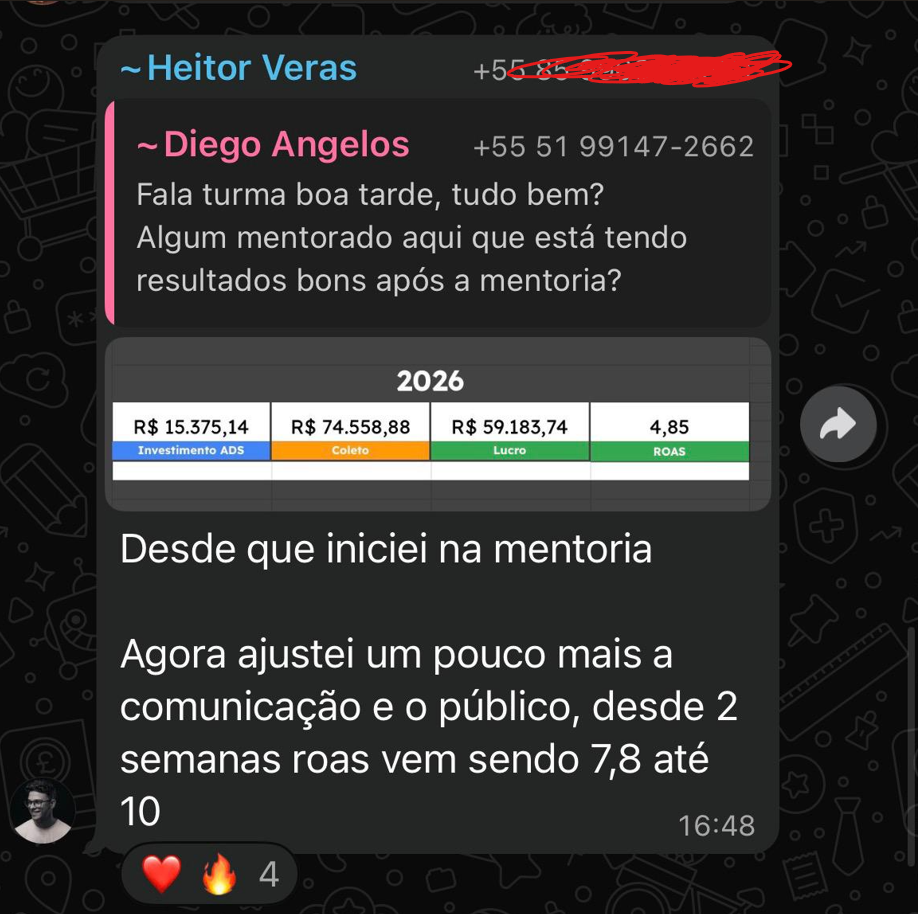
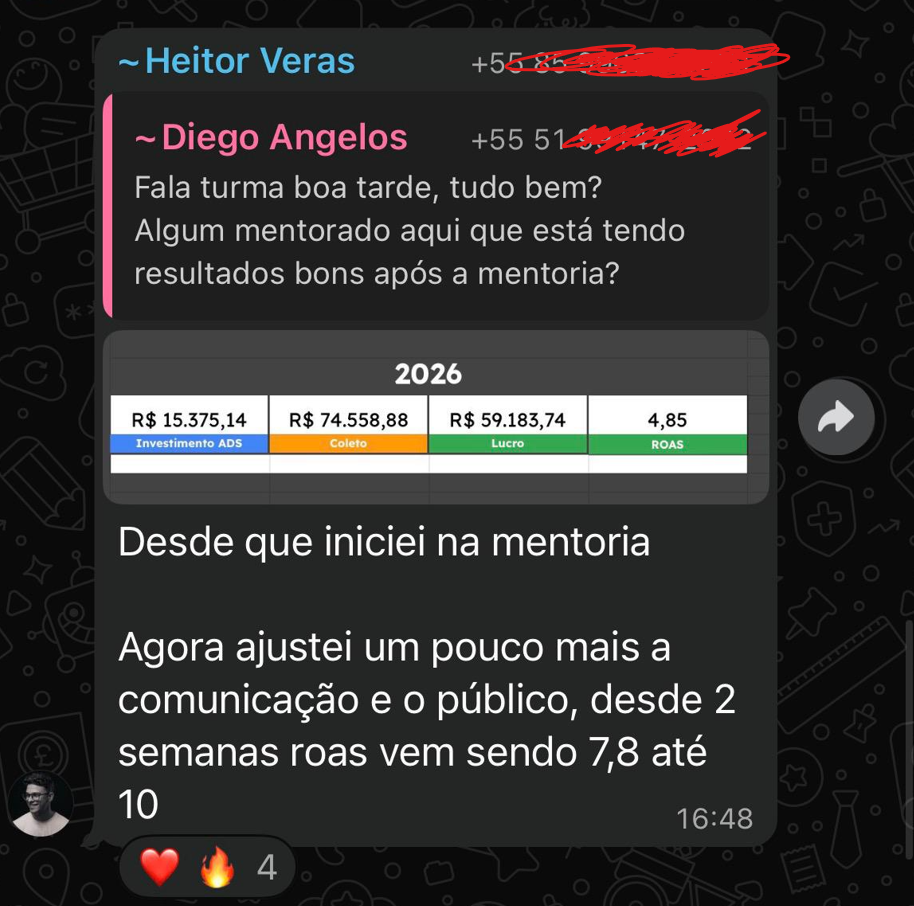
chore: update case study images to hide sensitive phone numbers

diff --git a/index.html b/index.html
@@ -8,7 +8,7 @@
     <link rel="preconnect" href="https://fonts.googleapis.com">
     <link rel="preconnect" href="https://fonts.gstatic.com" crossorigin>
     <link href="https://fonts.googleapis.com/css2?family=Inter:wght@300;400;500&family=Outfit:wght@400;600;700;800&display=swap" rel="stylesheet">
-    <link rel="stylesheet" href="styles.css?v=14">
+    <link rel="stylesheet" href="styles.css?v=15">
 </head>
 <body>
 
@@ -78,7 +78,7 @@
                         <img src="assets/cases/case-4.jpeg" alt="Caso de Sucesso" class="case-image">
                     </div>
                     <div class="case-card">
-                        <img src="assets/cases/case-5.png" alt="Caso de Sucesso" class="case-image">
+                        <img src="assets/cases/case-5.jpeg" alt="Caso de Sucesso" class="case-image">
                     </div>
                     <div class="case-card">
                         <img src="assets/cases/case-6.png" alt="Caso de Sucesso" class="case-image">
@@ -97,7 +97,7 @@
                         <img src="assets/cases/case-4.jpeg" alt="Caso de Sucesso" class="case-image">
                     </div>
                     <div class="case-card">
-                        <img src="assets/cases/case-5.png" alt="Caso de Sucesso" class="case-image">
+                        <img src="assets/cases/case-5.jpeg" alt="Caso de Sucesso" class="case-image">
                     </div>
                     <div class="case-card">
                         <img src="assets/cases/case-6.png" alt="Caso de Sucesso" class="case-image">
@@ -266,6 +266,6 @@
     </div>
 
     <!-- SCRIPT DE MANIPULAÇÃO -->
-    <script src="script.js?v=13"></script>
+    <script src="script.js?v=15"></script>
 </body>
 </html>
